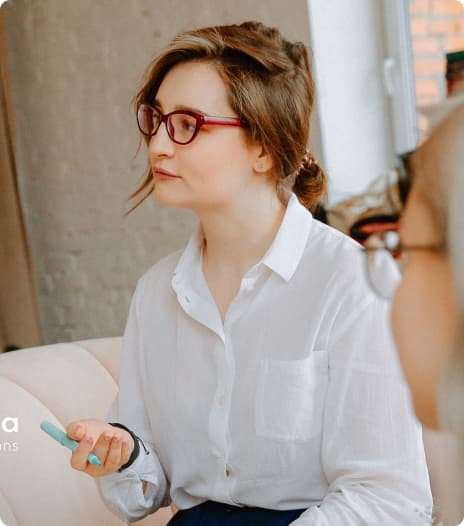
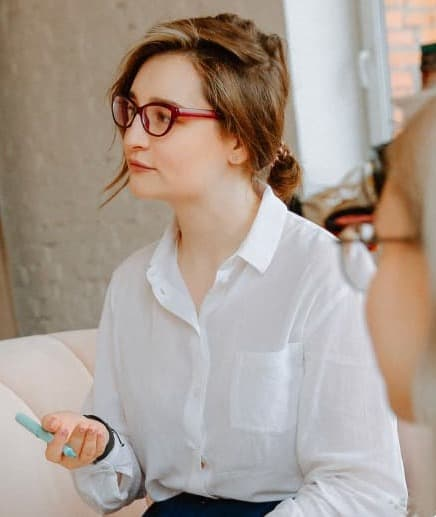
refactor: use unique keys, optimize image and update README

diff --git a/src/components/PsychologistReviews/PsychologistReviews.jsx b/src/components/PsychologistReviews/PsychologistReviews.jsx
@@ -1,6 +1,7 @@
 import css from "./PsychologistReviews.module.css";
 import { FaStar } from "react-icons/fa";
 import { NavLink } from "react-router-dom";
+import { v4 as uuidv4 } from "uuid";
 
 export default function PsychologistReviews({ psychologist }) {
   const { reviews } = psychologist;
@@ -8,8 +9,8 @@ export default function PsychologistReviews({ psychologist }) {
   return (
     <div>
       <ul>
-        {reviews.map(({ reviewer, rating, comment }, ind) => (
-          <li key={ind} className={css.item}>
+        {reviews.map(({ reviewer, rating, comment }) => (
+          <li key={uuidv4()} className={css.item}>
             <div className={css.reviewer}>
               <p className={css.avatar}>{reviewer.charAt(0).toUpperCase()}</p>
 

diff --git a/src/pages/HomePage/HomePage.module.css b/src/pages/HomePage/HomePage.module.css
@@ -44,9 +44,7 @@
 }
 
 .picture {
-  width: 100%;
-  max-width: 464px;
-  max-height: 526px;
+  max-width: 456px;
 }
 
 @media screen and (max-width: 760px) {
@@ -81,10 +79,7 @@
   }
 
   .picture {
-    width: 320px;
-    height: auto;
-    max-width: 100%;
-    object-fit: contain;
+    max-width: 280px;
   }
 }
 

diff --git a/README.md b/README.md
@@ -1,7 +1,14 @@
 🧠 Psychologist Services Platform
-A modern web application designed to connect users with professional psychologists. This project is built with a focus on performance, scalability, and seamless user experience.
+A modern web application designed to connect users with professional psychologists. This project is built with a focus on performance, scalability, and seamless user experience. I decided to keep the state management simple using React Props and local state. Since the component tree is shallow, this approach keeps the code clean and avoids unnecessary complexity. For the Favorites page, I chose to fetch data independently to ensure the user always gets the most up-to-date information directly from the database.
 
-Status: 🚧 Project is currently under active development.
+Project Status: Ongoing
+This project is currently in the secondary development phase.
+Phase 1 (Completed): MVP with core filtering and Firebase integration.
+Phase 2 (Active):
+
+- UI/UX optimization and responsive design.
+- Error handling improvements.
+- Upcoming: Secure User Authentication & Private Dashboard
 
 ✨ Features Implemented
 Psychologists Directory: A list of professionals with detailed profiles and reviews.
@@ -29,8 +36,6 @@ Authentication: Implement full user registration and login flows.
 Access Control: Restrict "Favorites" functionality to authorized users only.
 
 📈 Functionality & UI/UX
-Redux Integration: I plan to migrate the application state to Redux Toolkit to handle complex logic, such as user authentication and persistent "Favorites" storage
-
 Pagination: Implement pagination for the Favorites page to handle large datasets efficiently.
 
 Enhanced Calendar: Integrate react-datepicker to provide a better UI and "gray out" fully booked dates.
